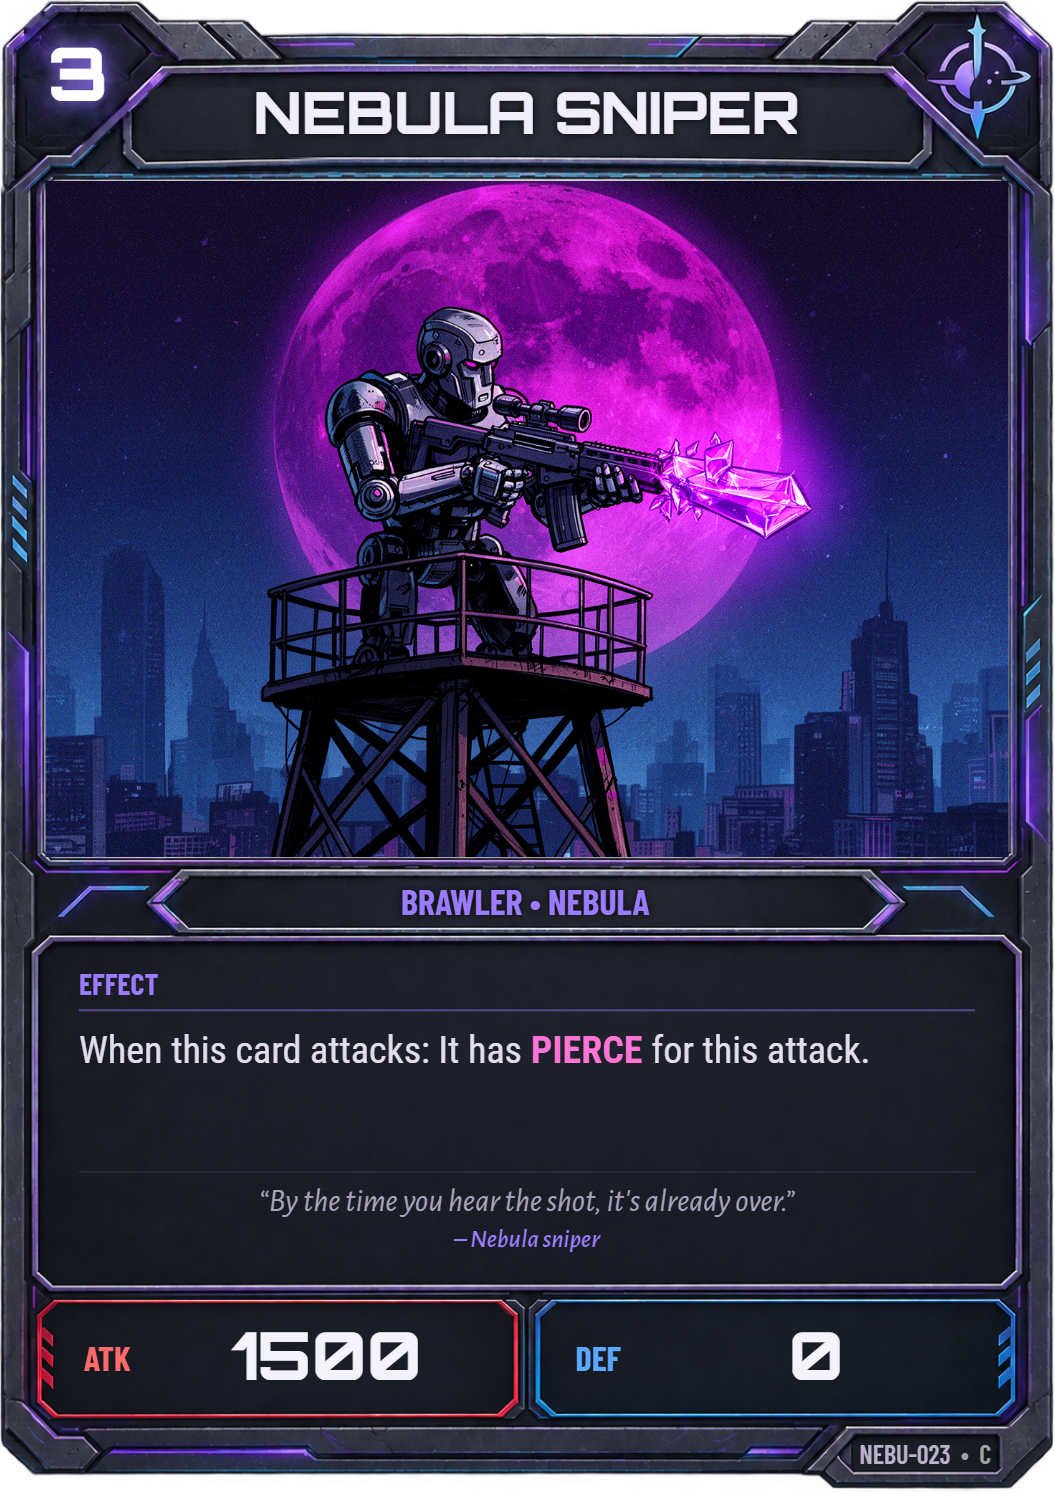
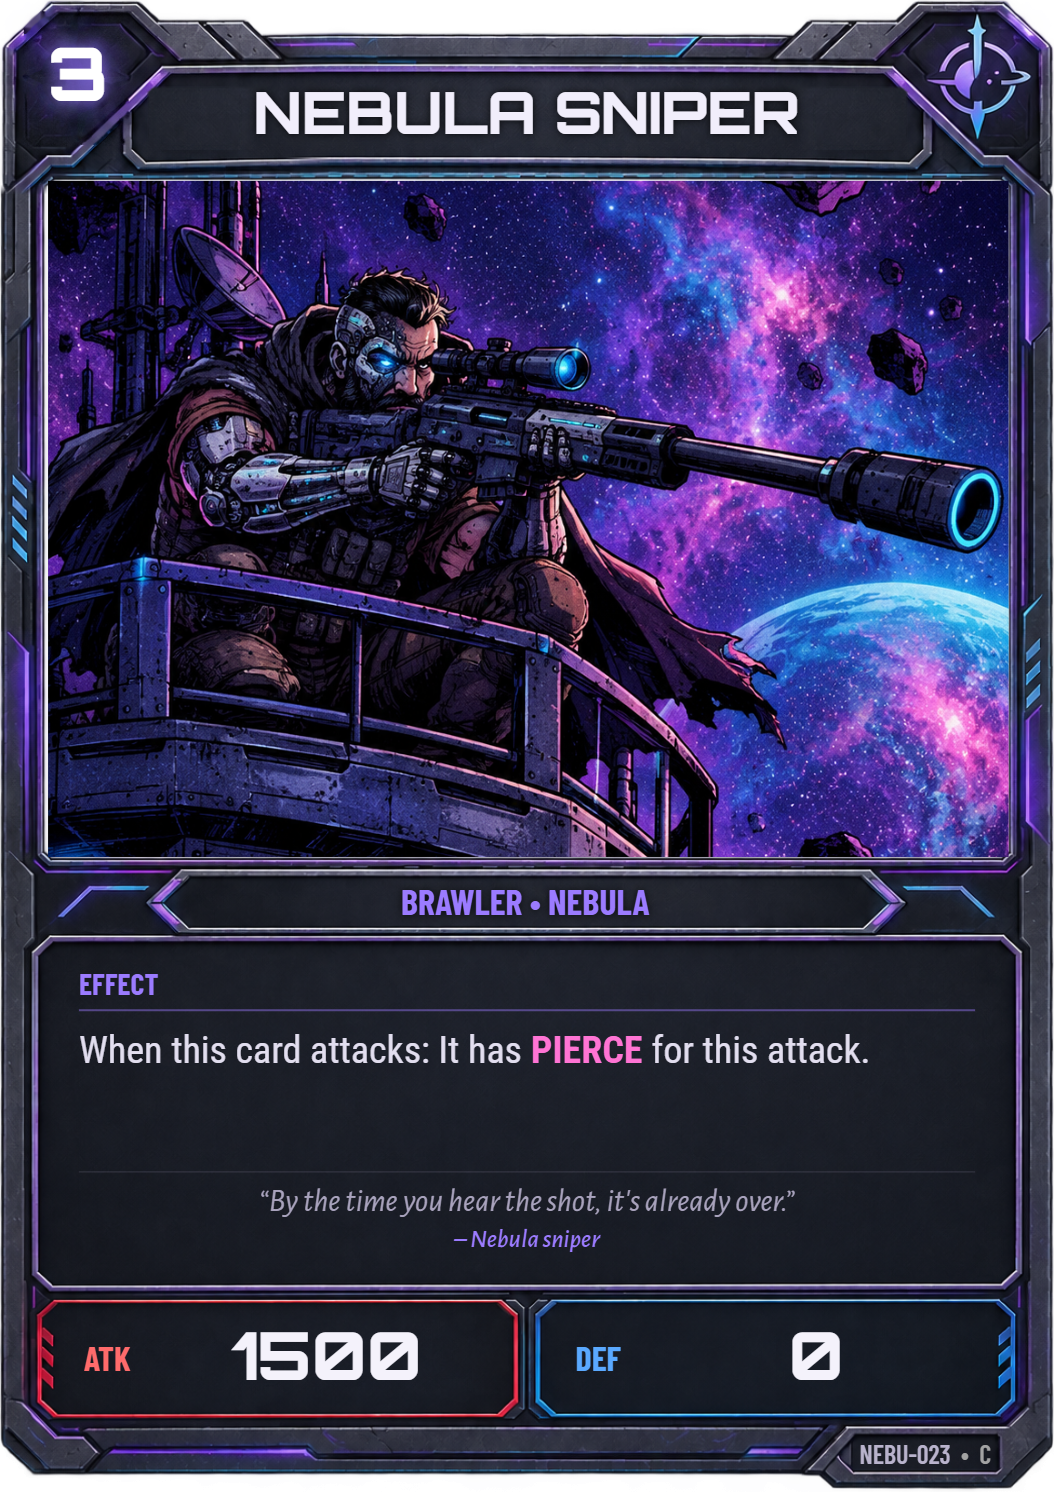
Forge cards: Orbital Strike, Nebula Protector; new Nebula Sniper art

diff --git a/shared/cards_forge.js b/shared/cards_forge.js
@@ -537,5 +537,60 @@ export const FORGE_CARDS = {
         "clanName": "Nebula",
         "clanColor": "#9b7bff",
         "ambushClan": "nebula"
+    },
+    "card_nebu_027": {
+        "id": "card_nebu_027",
+        "name": "Orbital Strike",
+        "clan": "nebula",
+        "cardType": "hustle",
+        "authority": 4,
+        "tributeCost": 0,
+        "rarity": 4,
+        "clanTag": "nebula",
+        "effectKey": "",
+        "art_url": "card_nebu_027",
+        "code": "NEBU-027",
+        "flavourText": "Out of allies? Call down the sky",
+        "effectText": "If you control no characters, DOWN all enemy characters.",
+        "effects": [
+            {
+                "when": "deploy",
+                "do": "down",
+                "target": "enemies",
+                "if": "alone"
+            }
+        ],
+        "clanName": "Nebula",
+        "clanColor": "#9b7bff"
+    },
+    "card_nebu_028": {
+        "id": "card_nebu_028",
+        "name": "Nebula Protector",
+        "clan": "nebula",
+        "cardType": "gang_member",
+        "authority": 5,
+        "tributeCost": 0,
+        "rarity": 1,
+        "clanTag": "nebula",
+        "effectKey": "",
+        "art_url": "card_nebu_028",
+        "code": "NEBU-028",
+        "flavourText": "You'll have to go through me. Most don't",
+        "effectText": "Once per turn, when this card is attacked: It gains SHIELD.",
+        "effects": [
+            {
+                "when": "defend",
+                "do": "shield",
+                "target": "self",
+                "once": true
+            }
+        ],
+        "clanName": "Nebula",
+        "clanColor": "#9b7bff",
+        "attack": 1600,
+        "defense": 2000,
+        "level": 1,
+        "subtype": "brawler",
+        "promotesTo": null
     }
 };
